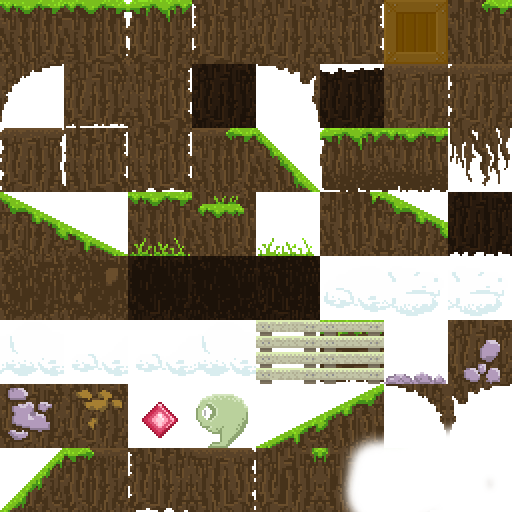
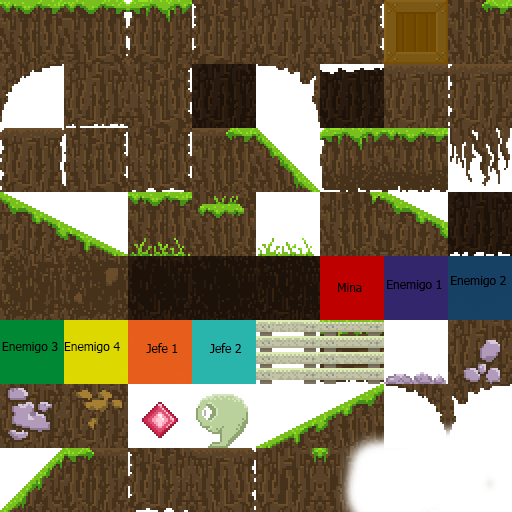
mina y cambios a patron de imagen

Changed region(s): [[0.0, 0.625, 0.5, 0.75], [0.625, 0.5, 1.0, 0.625]]

diff --git a/Patrones.tsx b/Patrones.tsx
@@ -1,0 +1,4 @@
+<?xml version="1.0" encoding="UTF-8"?>
+<tileset version="1.4" tiledversion="1.4.3" name="juego" tilewidth="64" tileheight="64" tilecount="64" columns="8">
+ <image source="juego.png" width="512" height="512"/>
+</tileset>

diff --git a/Mina.py b/Mina.py
@@ -1,0 +1,28 @@
+import pygame
+import Constantes
+
+class Mina(pygame.sprite.Sprite):
+    def __init__(self,posicion) :
+        pygame.sprite.Sprite.__init__(self)
+        self.accion = 0
+        self.imagenes = [pygame.image.load("Mina/Mina1.png"),pygame.image.load("Mina/Mina2.png"),pygame.image.load("Mina/Mina3.png"),pygame.image.load("Mina/Mina4.png"),
+        pygame.image.load("Mina/Mina3.png"),pygame.image.load("Mina/Mina2.png")]
+        self.image = imagenes[accion]
+        self.rect = self.image.get_rect()
+        self.rect.x = posicion[0]
+        self.rect.y = posicion[1]
+        self.animacion = 0
+
+
+    def update(self,mov) :
+        self.rect.x -= mov[0]
+        self.rect.y -= mov[1]
+        if self.animacion == 3:
+            if self.accion == 6:
+                self.accion = 0
+            else:
+                self.accion += 1
+            self.animacion = 0
+        else:
+            self.animacion += 1
+        self.image = self.imagenes[accion]

diff --git a/Nivel1.py b/Nivel1.py
@@ -197,6 +197,7 @@ def juego(NumeroNivel):
                 elif minum == 5 :
                     b = Bloque([j*64,i*64],Bloque4)
                     bloques.add(b)
+
                 if i==0 and j ==0:
                     l = LimClass(j*64,i*64)
                     lim.add(l)
